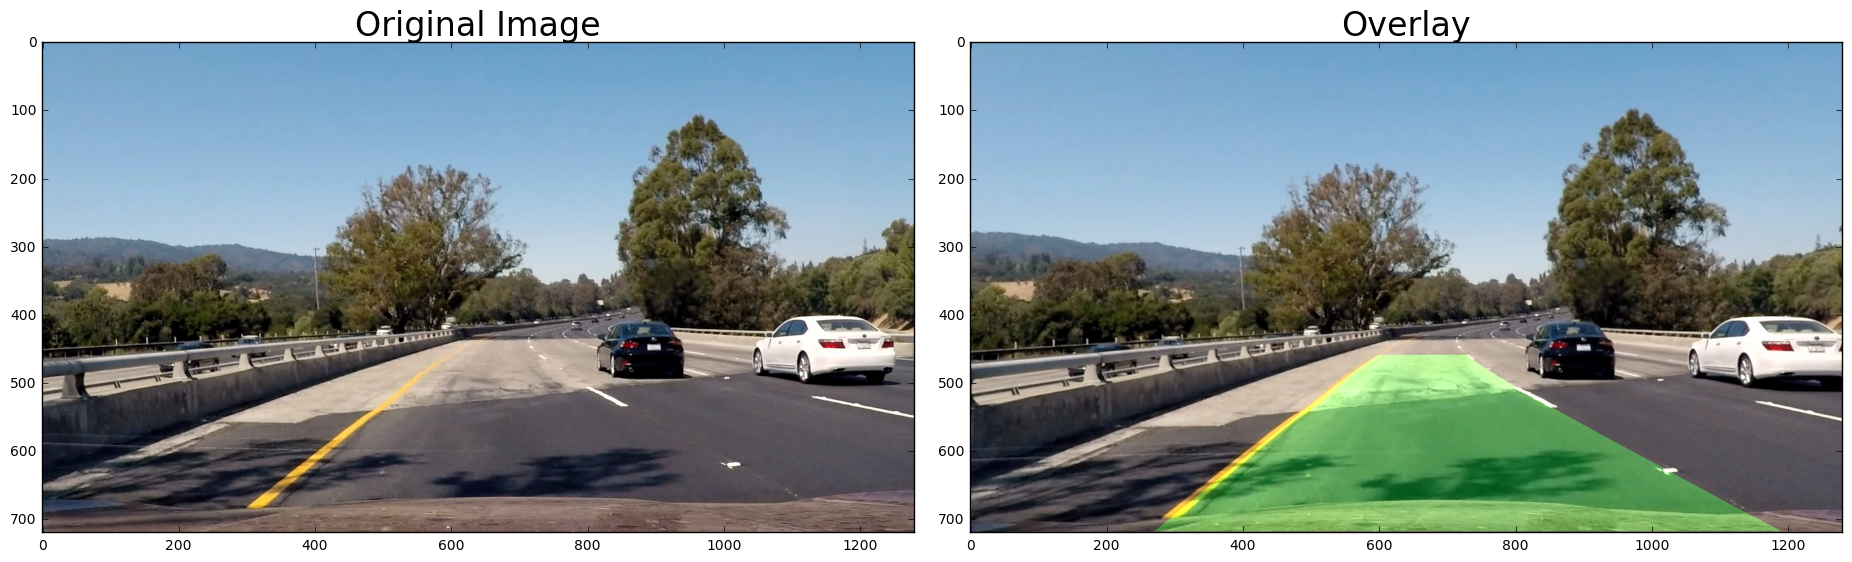
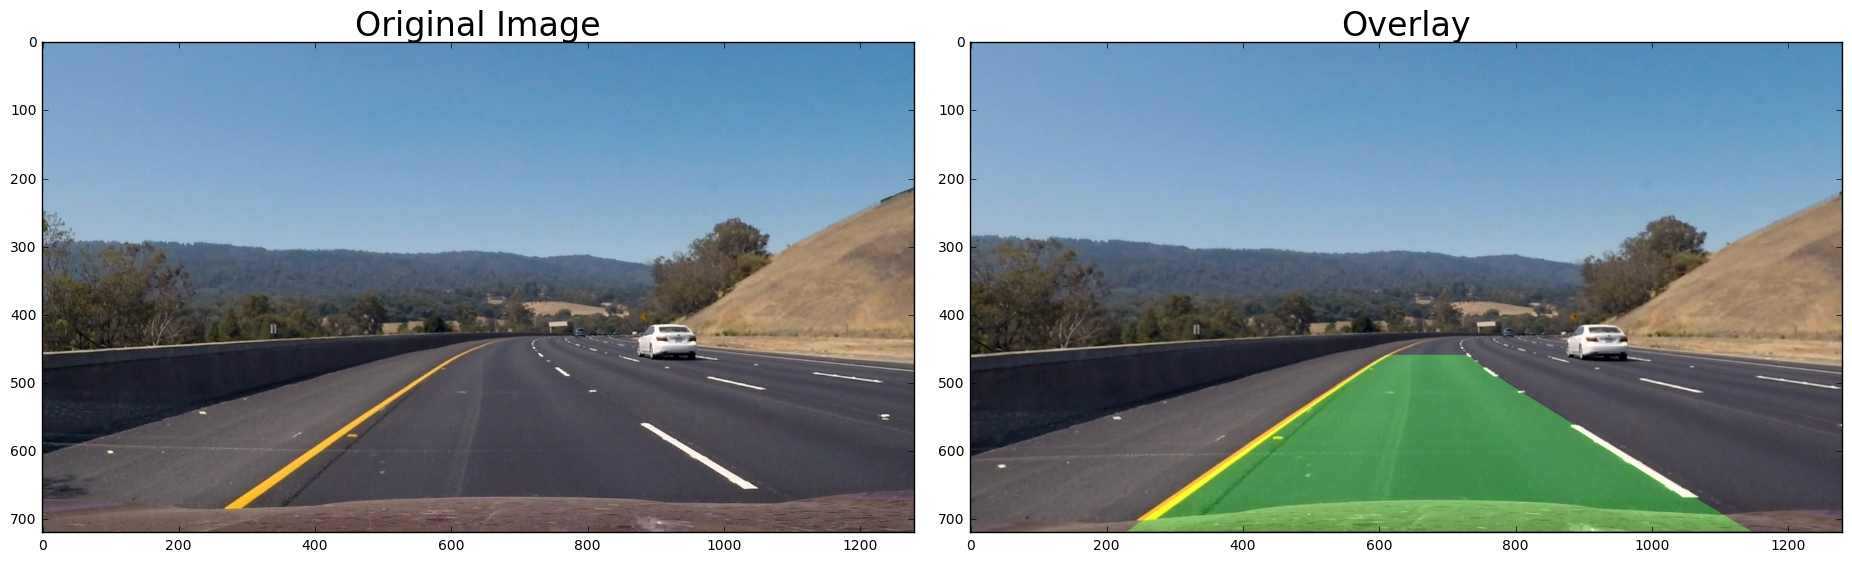
updates to overlay curvature information on test image

diff --git a/advanced_lane_lines.md b/advanced_lane_lines.md
@@ -255,25 +255,6 @@ First, I am defining a few helper function to tie my image process pipepline tog
 
 
 ```python
-def region_mask(img):
-    shape = img.shape
-    vertices = np.array([[(0,0),(shape[1],0),(shape[1],0),(6*shape[1]/7,shape[0]),
-                      (shape[1]/7,shape[0]), (0,0)]],dtype=np.int32)
-
-    mask = np.zeros_like(img)   
-    
-    if len(img.shape) > 2:
-        channel_count = img.shape[2]  # i.e. 3 or 4 depending on your image
-        ignore_mask_color = (255,) * channel_count
-    else:
-        ignore_mask_color = 255
-        
-    cv2.fillPoly(mask, vertices, ignore_mask_color)
-    
-    #returning the image only where mask pixels are nonzero
-    masked_image = cv2.bitwise_and(img, mask)
-    return masked_image
-
 def undistort(img):
     result = cv2.undistort(img, mtx, dist, None, mtx)
     return result
@@ -287,7 +268,6 @@ def undist_pipeline_warp(img):
     color_binary, binary = pipeline(img,s_thresh=(110, 255),sx_thresh=(25, 255))
     combined_binary = 255*np.dstack((binary,binary,binary)).astype('uint8')
     result = warp(combined_binary)
-    # result = region_mask(result)
     return result, combined_binary
 
 img = plt.imread('test_images/test1.jpg')
@@ -320,7 +300,7 @@ plt.plot(histogram)
 
 
 
-    [<matplotlib.lines.Line2D at 0x10cab5978>]
+    [<matplotlib.lines.Line2D at 0x111312ef0>]
 
 
 
@@ -538,7 +518,7 @@ leftx_sample = np.array([200 + (y**2)*quadratic_coeff + np.random.randint(-50, h
 rightx_sample = np.array([900 + (y**2)*quadratic_coeff + np.random.randint(-50, high=51) 
                                 for y in ploty_sample])
 
-def calculate_curvature(leftx, rightx, ploty):
+def calculate_curvature(leftx, rightx, ploty, do_plot=False):
     #leftx = leftx[::-1]  # Reverse to match top-to-bottom in y
     #rightx = rightx[::-1]  # Reverse to match top-to-bottom in y
 
@@ -549,14 +529,15 @@ def calculate_curvature(leftx, rightx, ploty):
     right_fitx = right_fit[0]*ploty**2 + right_fit[1]*ploty + right_fit[2]
 
     # Plot up the fake data
-    mark_size = 3
-    plt.plot(leftx, ploty, 'o', color='red', markersize=mark_size)
-    plt.plot(rightx, ploty, 'o', color='blue', markersize=mark_size)
-    plt.xlim(0, 1280)
-    plt.ylim(0, 720)
-    plt.plot(left_fitx, ploty, color='green', linewidth=3)
-    plt.plot(right_fitx, ploty, color='green', linewidth=3)
-    plt.gca().invert_yaxis() # to visualize as we do the images
+    if do_plot is True:
+        mark_size = 3
+        plt.plot(leftx, ploty, 'o', color='red', markersize=mark_size)
+        plt.plot(rightx, ploty, 'o', color='blue', markersize=mark_size)
+        plt.xlim(0, 1280)
+        plt.ylim(0, 720)
+        plt.plot(left_fitx, ploty, color='green', linewidth=3)
+        plt.plot(right_fitx, ploty, color='green', linewidth=3)
+        plt.gca().invert_yaxis() # to visualize as we do the images
 
     # Define y-value where we want radius of curvature
     # I'll choose the maximum y-value, corresponding to the bottom of the image
@@ -572,18 +553,20 @@ def calculate_curvature(leftx, rightx, ploty):
     # Fit new polynomials to x,y in world space
     left_fit_cr = np.polyfit(ploty*ym_per_pix, leftx*xm_per_pix, 2)
     right_fit_cr = np.polyfit(ploty*ym_per_pix, rightx*xm_per_pix, 2)
+    
     # Calculate the new radii of curvature
     left_curverad = ((1 + (2*left_fit_cr[0]*y_eval*ym_per_pix + left_fit_cr[1])**2)**1.5) / np.absolute(2*left_fit_cr[0])
     right_curverad = ((1 + (2*right_fit_cr[0]*y_eval*ym_per_pix + right_fit_cr[1])**2)**1.5) / np.absolute(2*right_fit_cr[0])
     # Now our radius of curvature is in meters
-    print('Curvature in world space: ', left_curverad, 'm', right_curverad, 'm')
+    curvature = 0.5*(round(right_curverad/1000,1) + round(left_curverad/1000,1))
+    position = 3.7
+    return position, curvature
 
 #calculate_curvature(leftx_sample, rightx_sample, ploty_sample)
-calculate_curvature(left_fitx, right_fitx, ploty)
+position, curvature = calculate_curvature(left_fitx, right_fitx, ploty, do_plot=True)
 ```
 
     Curvature in pixel space:  3667.80935596 8727.28333836
-    Curvature in world space:  1203.24180809 m 2755.11097694 m
 
 
 
@@ -596,7 +579,7 @@ First, we create an empty image to draw the lines on. Then we recast the x and y
 
 
 ```python
-def overlay_lane_lines(img,left_fitx,right_fitx,yvals):
+def overlay_lane_lines(img,left_fitx,right_fitx,yvals,curv_overlay=False):
     lanefit_image = np.zeros_like(img).astype(np.uint8)
 
     left = np.array([np.transpose(np.vstack([left_fitx, yvals]))])
@@ -607,23 +590,32 @@ def overlay_lane_lines(img,left_fitx,right_fitx,yvals):
     undist = undistort(img)
     inverse_warp = cv2.warpPerspective(lanefit_image, MInv, (img.shape[1], img.shape[0])) 
     result = cv2.addWeighted(undist, 1, inverse_warp, 0.3, 0)
+    if curv_overlay is True:
+        position, curvature = calculate_curvature(left_fitx, right_fitx, yvals, do_plot=False)
+        curv_str = str('Radius of curvature: '+str(curvature)+'km')
+        font = cv2.FONT_HERSHEY_SIMPLEX
+        cv2.putText(result, curv_str,(430,670), font, 1,(0,0,255),2,cv2.LINE_AA)
+
     return result
 
 img = plt.imread('test_images/test1.jpg')
-overlay = overlay_lane_lines(img, left_fitx, right_fitx, ploty)
+overlay = overlay_lane_lines(img, left_fitx, right_fitx, ploty, curv_overlay=True)
 
 draw_two_imgs(img, overlay, title2='Overlay')
 ```
 
+    Curvature in pixel space:  3667.80935596 8727.28333836
 
-![png](output_24_0.png)
+
+
+![png](output_24_1.png)
 
 
 ### 5. Pipeline (video)
 
 #### 5.1 Process image frame
 
-I created a function called `process_image`, that will take an image as parameter and run through the pipeline we have developed so far. I used image test4.jpg to test my pipeline. 
+I created a function called `process_image`, that will take an image as parameter and run through the pipeline we have developed so far. I used image test4.jpg to test my pipeline. It looks pretty good!
 
 
 ```python
@@ -664,7 +656,7 @@ def process_image(img):
 
 
 ```python
-img = plt.imread('test_images/test4.jpg')
+img = plt.imread('test_images/test3.jpg')
 overlay = process_image(img)
 
 draw_two_imgs(img, overlay, title2='Overlay')
@@ -686,20 +678,6 @@ clip1 = VideoFileClip("project_video.mp4")
 processed_clip = clip1.fl_image(process_image) #NOTE: this function expects color images!!
 %time processed_clip.write_videofile(video_output, audio=False)
 ```
-
-    [MoviePy] >>>> Building video project_video_out.mp4
-    [MoviePy] Writing video project_video_out.mp4
-
-
-    100%|█████████▉| 1260/1261 [05:37<00:00,  3.80it/s]
-
-
-    [MoviePy] Done.
-    [MoviePy] >>>> Video ready: project_video_out.mp4 
-    
-    CPU times: user 5min 51s, sys: 1min 3s, total: 6min 55s
-    Wall time: 5min 37s
-
 
 
 ```python
